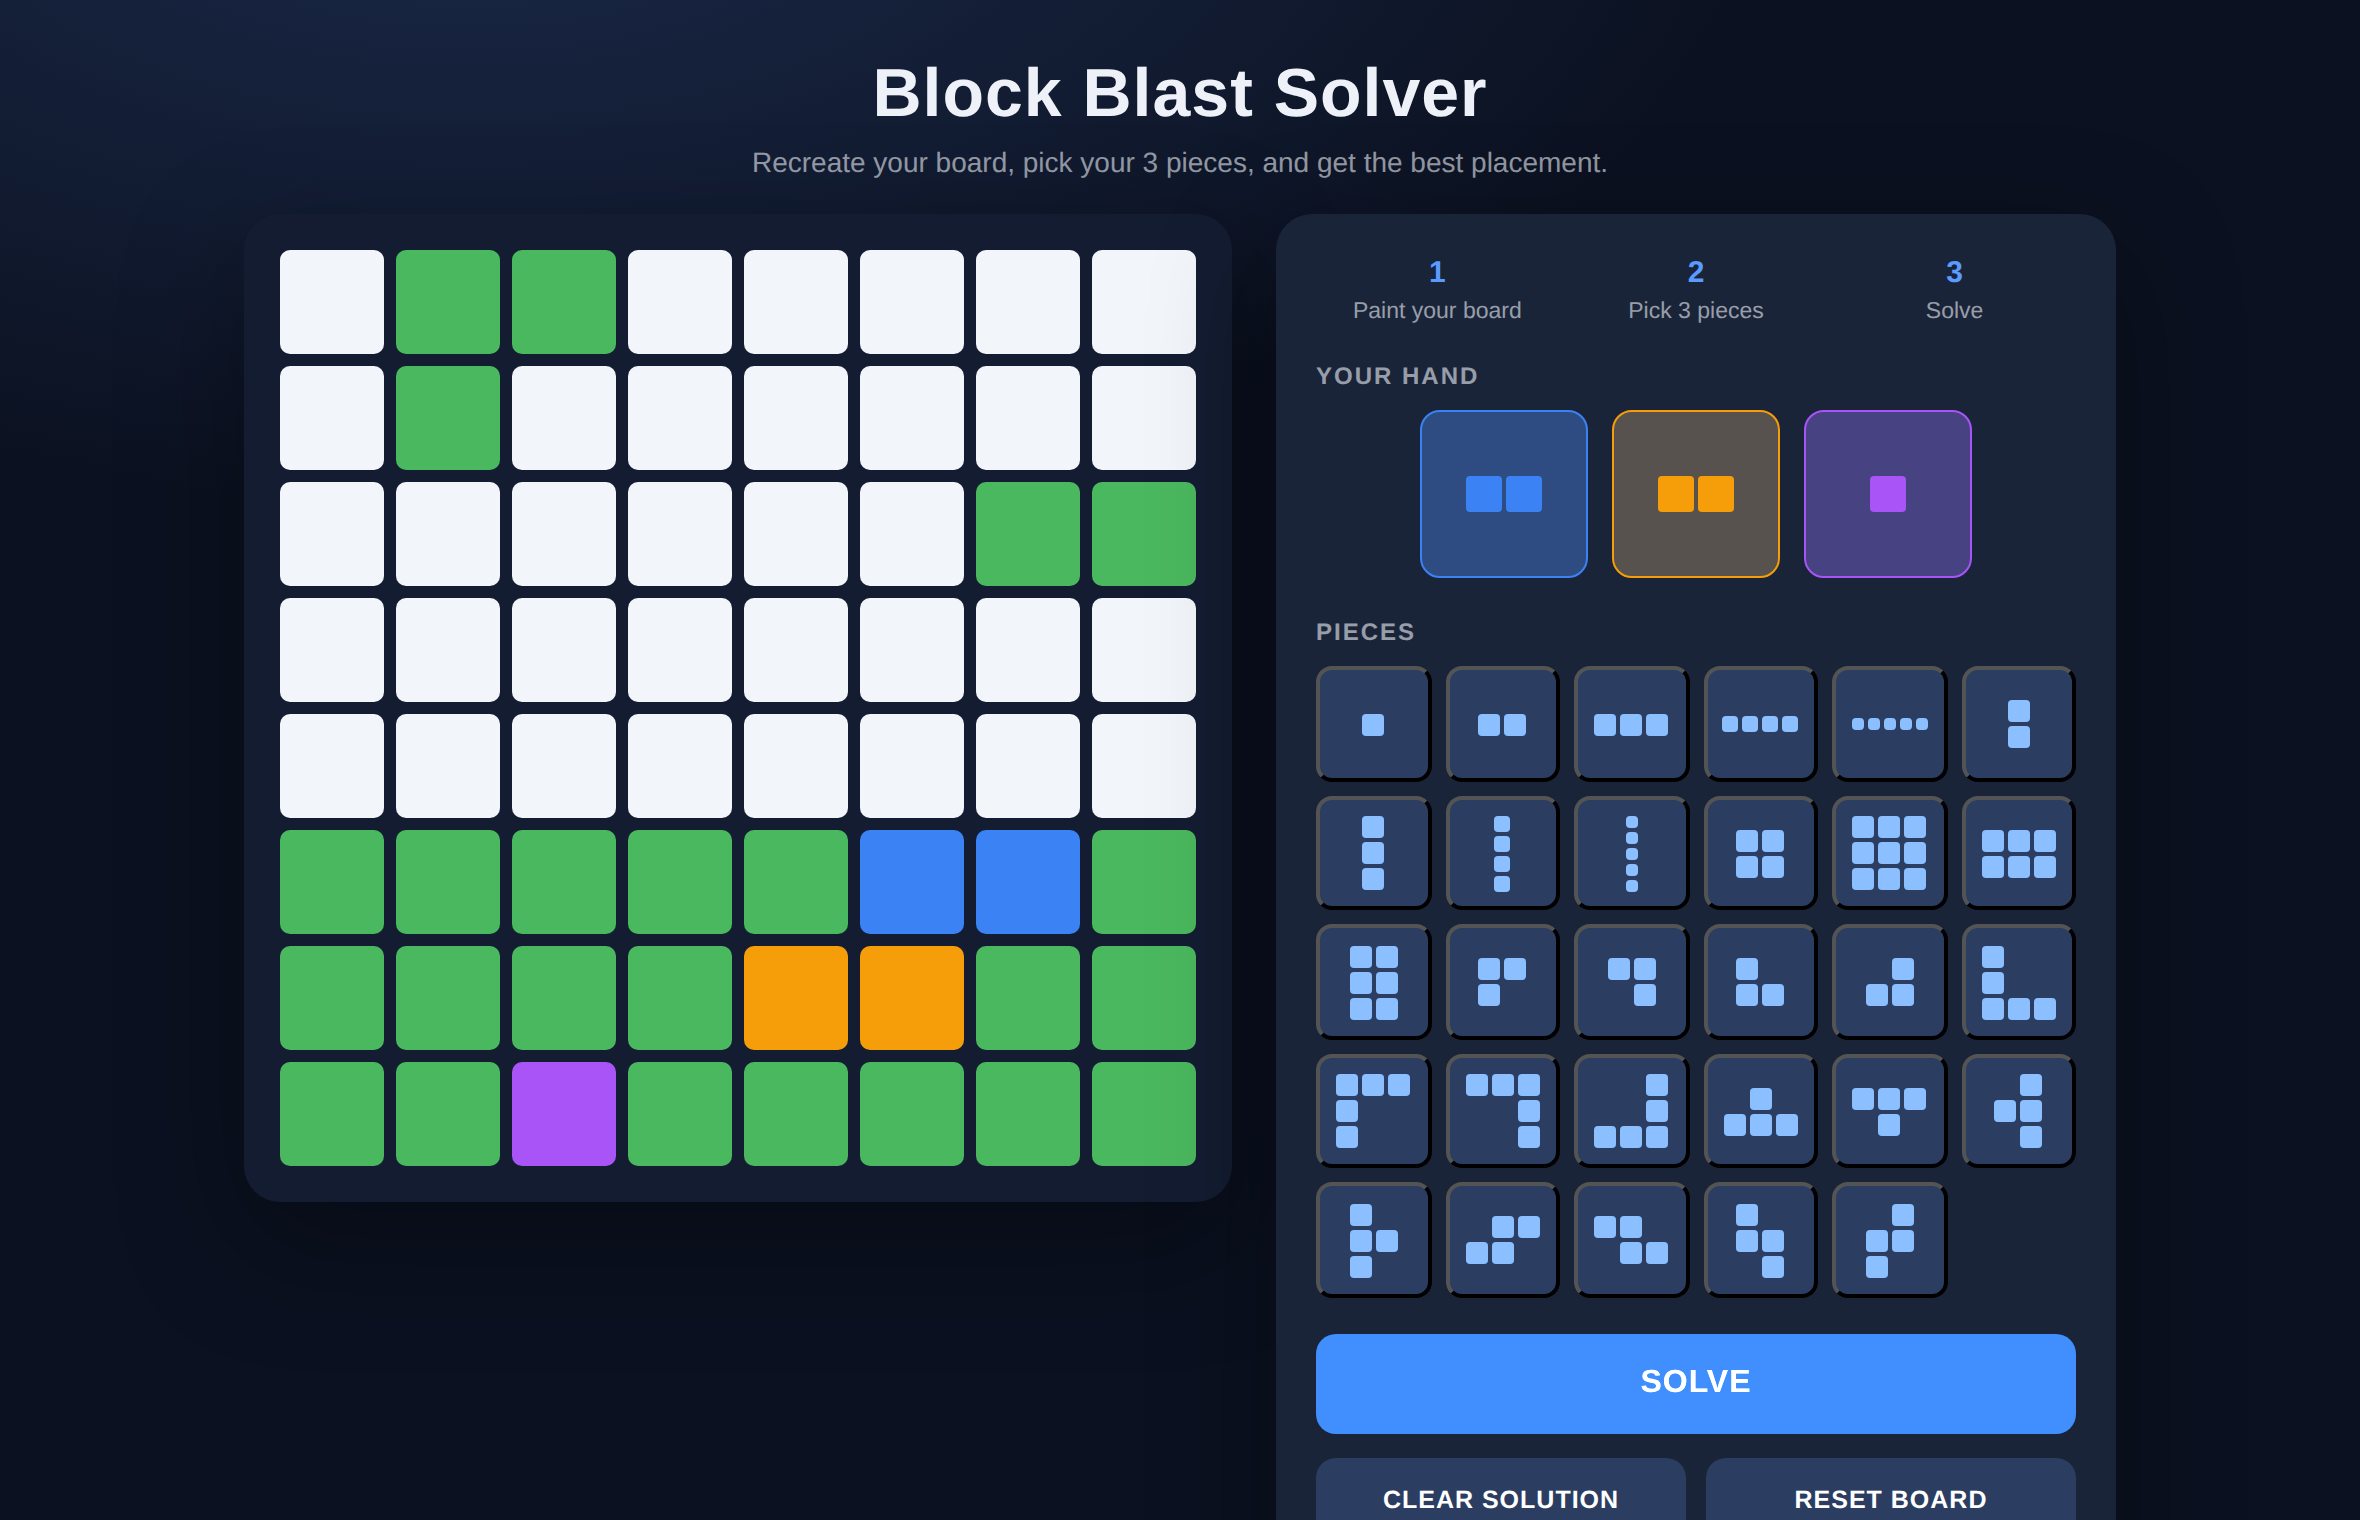
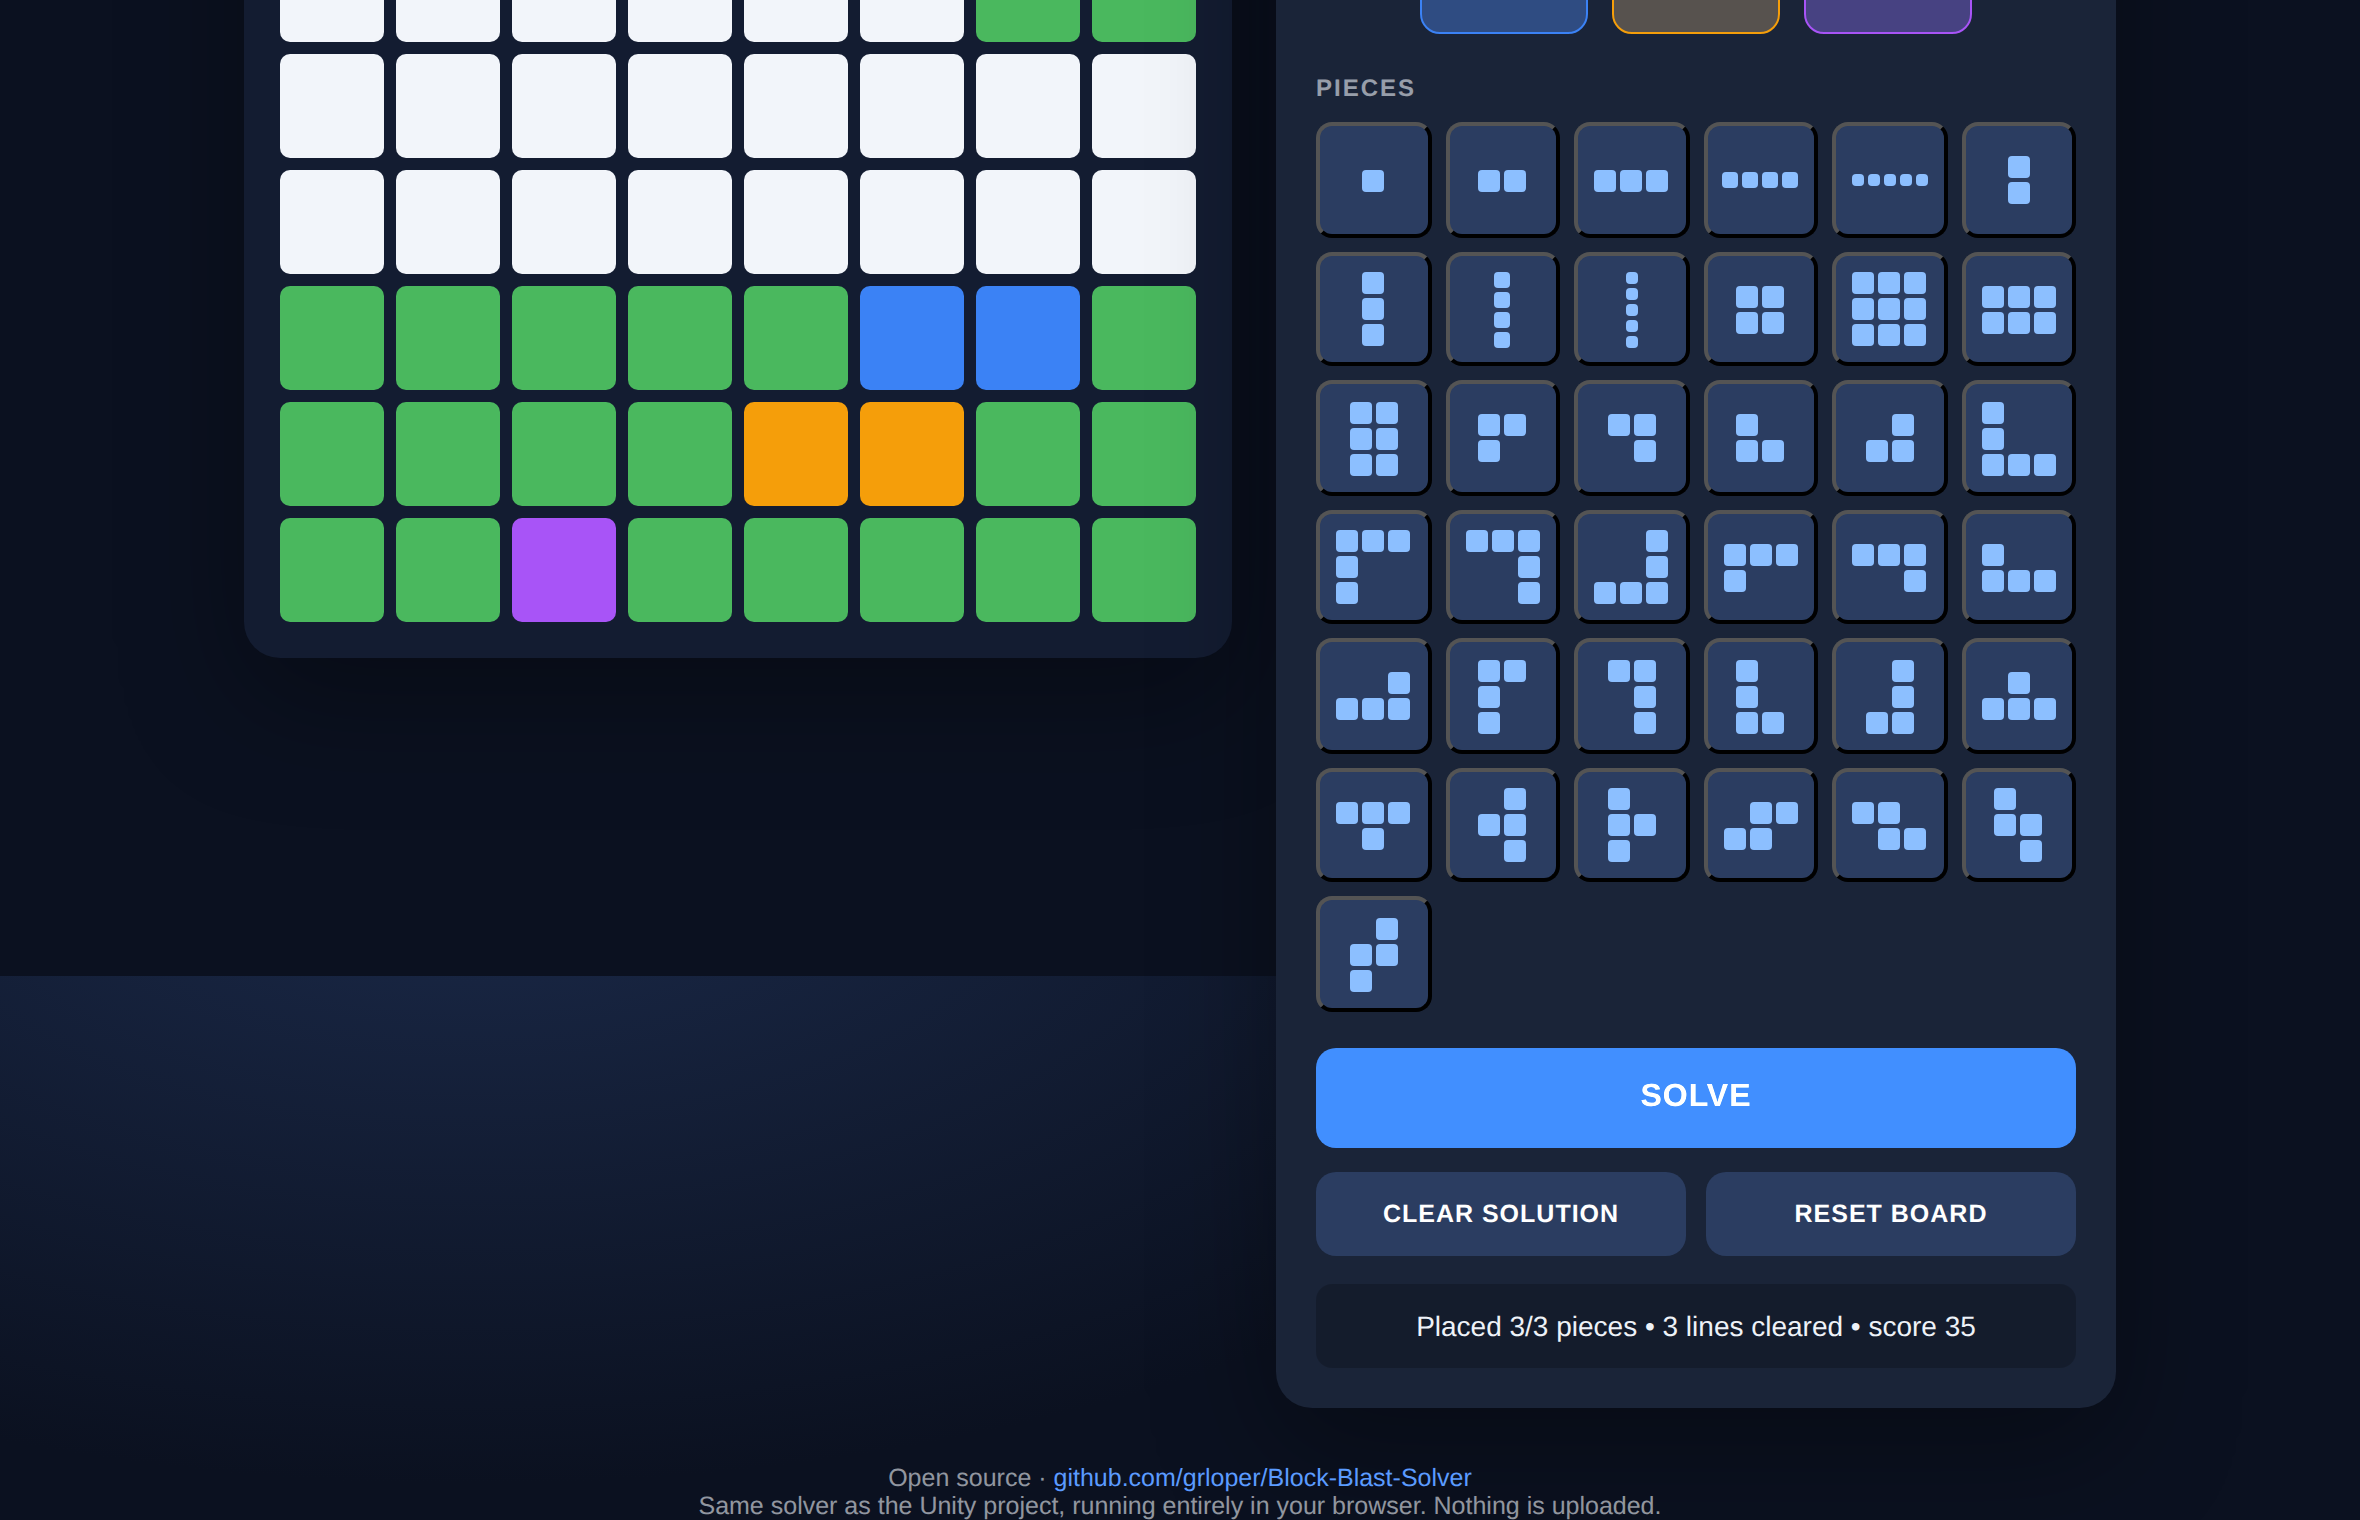
Add missing 4-cell L/J pieces to the piece set
The palette had 3-cell corners and 5-cell big Ls but not the 4-cell L/J
pieces (a row of three with one tab, e.g. XXX / X..). Add all 8 orientations
to both the Unity PieceLibrary and the web app, keeping them in sync. Piece
count 29 -> 37; refresh web app screenshots and README count.

Validated in the actual web app (Playwright): 37 pieces load, all 8 L4
orientations present, and the reported XXX/X.. piece places and clears a line.

Claude-Session: https://claude.ai/code/session_01JyWUGCbSFhQUx5obzhFPQY

diff --git a/WebApp/index.html b/WebApp/index.html
@@ -202,6 +202,14 @@ const PIECES = [
   makePiece("L 90", ["XXX","X..","X.."]),
   makePiece("L 180", ["XXX","..X","..X"]),
   makePiece("L 270", ["..X","..X","XXX"]),
+  makePiece("L4 up-left", ["XXX","X.."]),
+  makePiece("L4 up-right", ["XXX","..X"]),
+  makePiece("L4 down-left", ["X..","XXX"]),
+  makePiece("L4 down-right", ["..X","XXX"]),
+  makePiece("L4 vert-1", ["XX","X.","X."]),
+  makePiece("L4 vert-2", ["XX",".X",".X"]),
+  makePiece("L4 vert-3", ["X.","X.","XX"]),
+  makePiece("L4 vert-4", [".X",".X","XX"]),
   makePiece("T up", [".X.","XXX"]),
   makePiece("T down", ["XXX",".X."]),
   makePiece("T left", [".X","XX",".X"]),

diff --git a/Assets/Scripts/PieceLibrary.cs b/Assets/Scripts/PieceLibrary.cs
@@ -77,6 +77,16 @@ public static class PieceLibrary
             Make("L 180", "XXX", "..X", "..X"),
             Make("L 270", "..X", "..X", "XXX"),
 
+            // Small Ls / Js (4 cells: a row of 3 with one tab)
+            Make("L4 up-left", "XXX", "X.."),
+            Make("L4 up-right", "XXX", "..X"),
+            Make("L4 down-left", "X..", "XXX"),
+            Make("L4 down-right", "..X", "XXX"),
+            Make("L4 vert-1", "XX", "X.", "X."),
+            Make("L4 vert-2", "XX", ".X", ".X"),
+            Make("L4 vert-3", "X.", "X.", "XX"),
+            Make("L4 vert-4", ".X", ".X", "XX"),
+
             // Ts
             Make("T up", ".X.", "XXX"),
             Make("T down", "XXX", ".X."),

diff --git a/README.md b/README.md
@@ -73,7 +73,7 @@ The full search for 3 pieces finishes in well under a second.
 | `Assets/Scripts/BoardSetup.cs` | Spawns the 8x8 tile grid |
 | `Assets/Scripts/TileController.cs` | Click/drag painting and preview colors for a single tile |
 | `Assets/Scripts/BoardManager.cs` | Board state access, previews, reset |
-| `Assets/Scripts/PieceLibrary.cs` | The 29 standard Block Blast piece shapes |
+| `Assets/Scripts/PieceLibrary.cs` | The 37 standard Block Blast piece shapes |
 | `Assets/Scripts/BlockBlastSolver.cs` | The placement search (pure C#, engine-independent) |
 | `Assets/Scripts/SolverController.cs` | Builds the whole solver UI at runtime and wires everything together |
 | `WebApp/index.html` | Self-contained browser version (same solver, mobile/touch ready) |